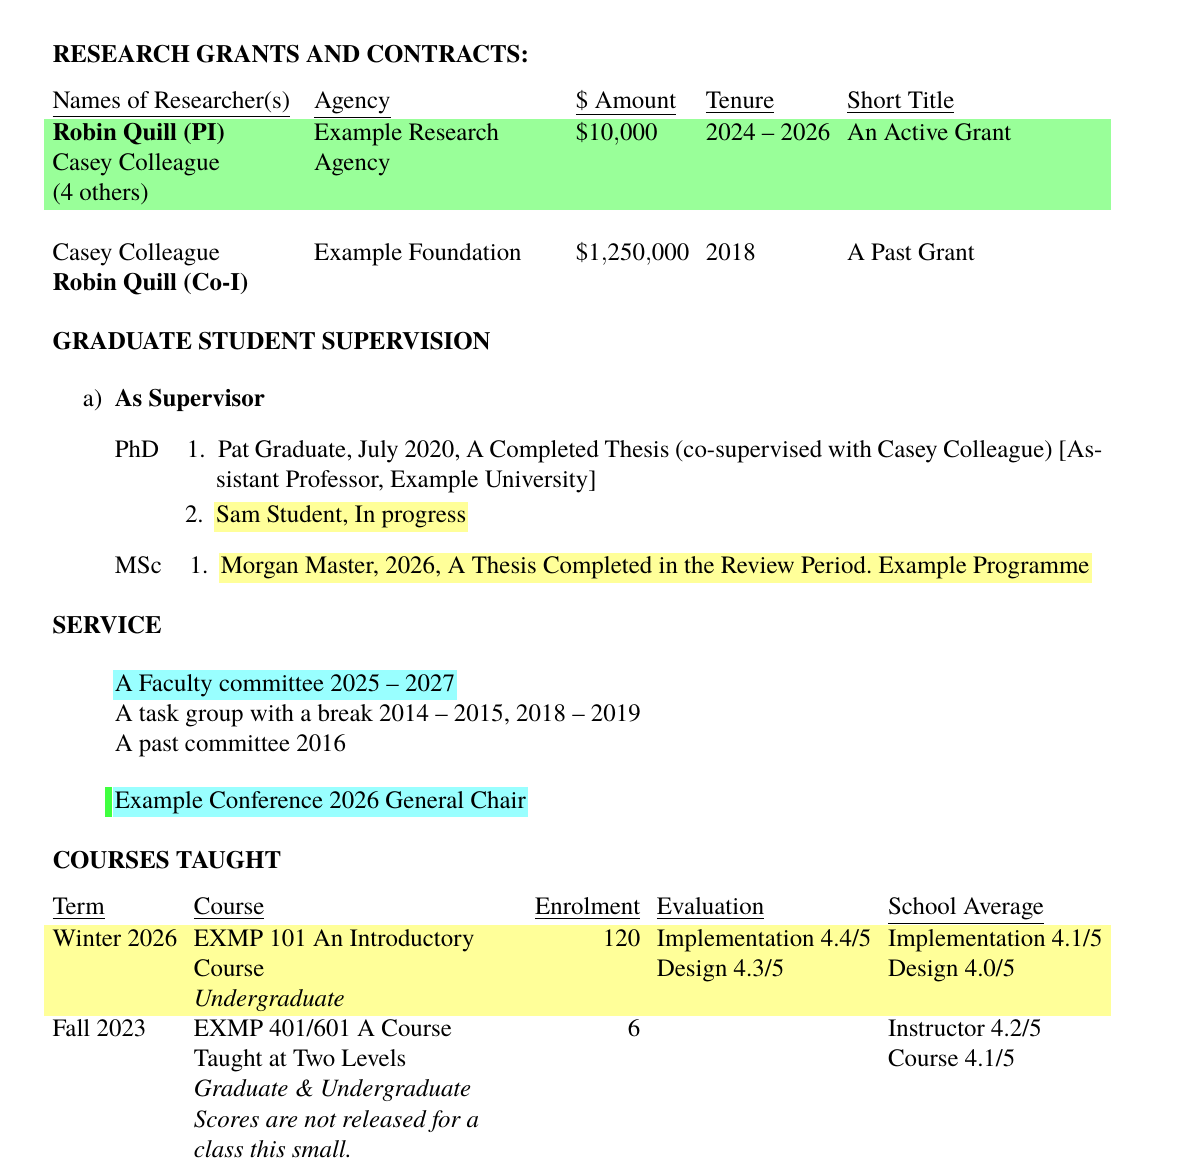
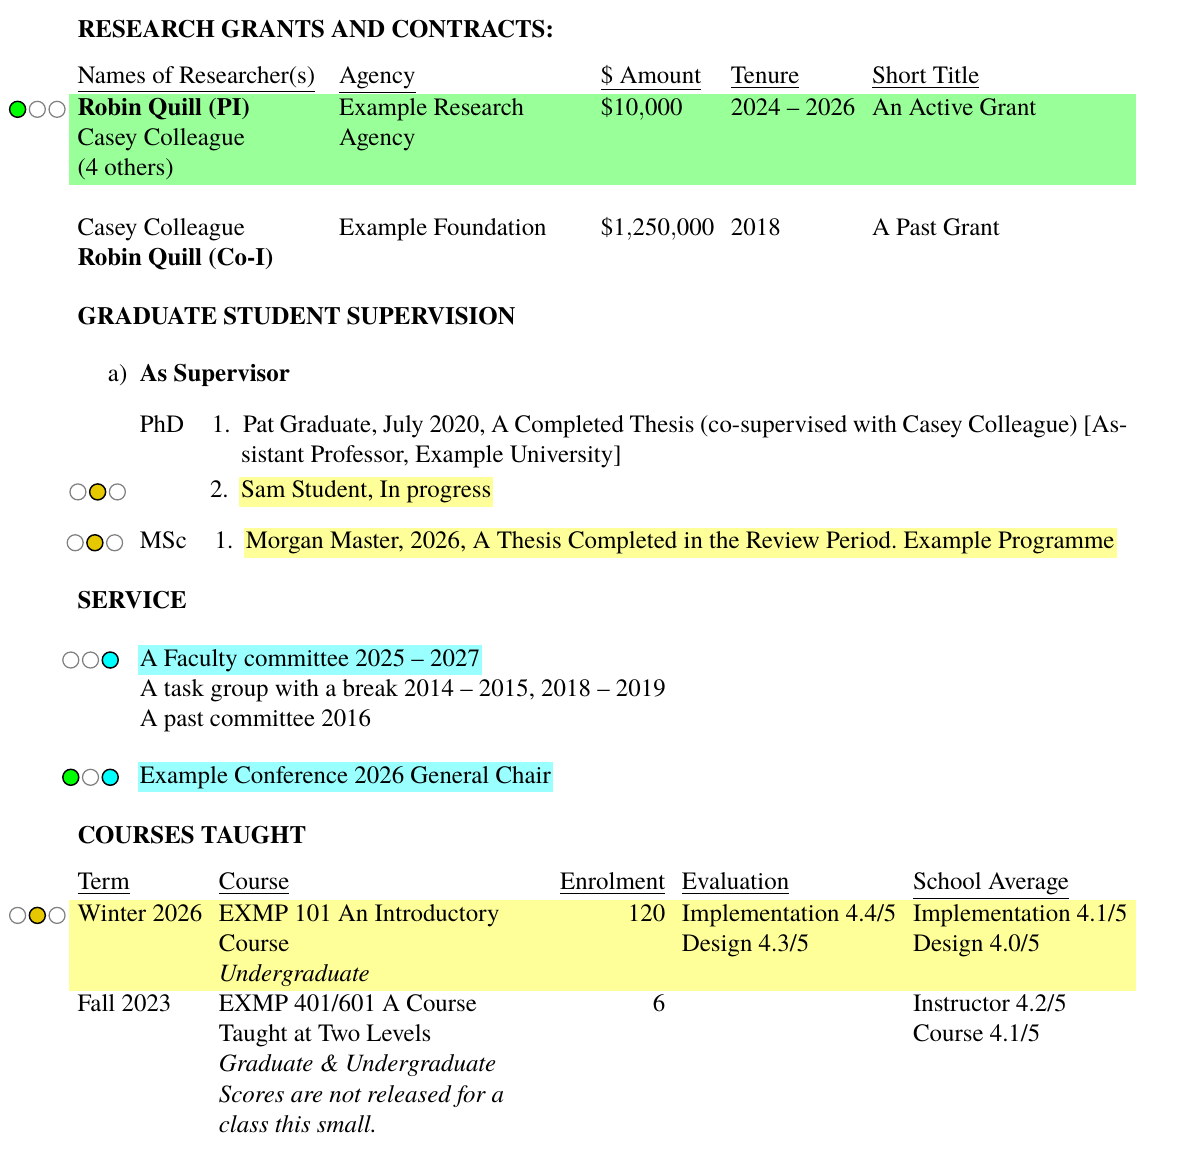
README: show the APR version in the dots style
Screenshots re-rendered from the starter CV with \sethighlightstyle{dots};
text and alt text describe the margin dots.

Claude-Session: https://claude.ai/code/session_01Lj65UYErS85rTPJwJ35aRd

Changed region(s): [[0.0, 0.0, 0.9639, 0.5174], [0.0, 0.5174, 0.9639, 1.0]]

diff --git a/README.md b/README.md
@@ -8,10 +8,11 @@ submit for the Annual Performance Review (APR), with every review-period item
 highlighted as teaching, research, service or an award. You keep one file, not
 two.
 
-![The same CV source compiled twice: the Faculty of Health CV on the left, and the APR version on the right, with review-period publications highlighted green as research and a trainee-authored paper and teaching software marked in two colours.](docs/images/plain-vs-apr.png)
+![The same CV source compiled twice: the Faculty of Health CV on the left, and the APR version on the right, with review-period publications highlighted green as research and, in the margin, a row of three dots per entry (research, teaching, service) filled for its categories: green alone for a paper, green and yellow for a trainee-authored paper and for teaching software.](docs/images/plain-vs-apr.png)
 
 *Left: `main.tex`, the Faculty of Health CV. Right: `apr.tex`, the same content as
-the APR version. All the examples here are fictional.*
+the APR version, in the dots style (`\sethighlightstyle{dots}`). All the examples
+here are fictional.*
 
 ## The APR version
 
@@ -23,7 +24,7 @@ two-year review period. The APR version shows the reviewer where each item belon
   awards and courses from that period are highlighted automatically. When the
   period moves, the highlighting moves with it.
 - **Two colours when work counts twice.** A paper with a trainee co-author is
-  research *and* supervision, and gets a bar in the second colour. Software built
+  research *and* supervision, and is marked in both colours. Software built
   for teaching can be teaching first and research second. You choose an entry's
   colours with biblatex categories (`aprteaching`, `apralsoresearch`, …).
 - **Award badges.** A paper or poster that won an award gets a rosette in the
@@ -33,9 +34,12 @@ two-year review period. The APR version shows the reviewer where each item belon
   authorship order in your field, or for course evaluation scores.
 - **Your choice of style.** Entries in two colours can be shown as a bar,
   halves, a split, a blend or dots, and the highlight strength is adjustable
-  (`apr-formatting.tex`).
+  (`apr-formatting.tex`). The screenshots use dots: each highlighted entry gets
+  three dots in the margin (research, teaching, service), filled for the
+  categories it counts in, so two-colour work reads at a glance and survives
+  black-and-white printing as filled versus empty.
 
-![Publications in the APR version: a review-period journal article highlighted green with a teaching bar for its trainee co-author, an award rosette beside an older paper, and a trainee's award-winning poster with a filled rosette.](docs/images/apr-publications.png)
+![Publications in the APR version in the dots style: a review-period journal article highlighted green with the research and teaching dots filled for its trainee co-author, an empty award rosette beside an older paper, and a trainee's award-winning poster with a filled pink rosette before its dots.](docs/images/apr-publications.png)
 
 Grants, students, service, awards and courses are records in `.bib` files, not
 hand-made tables. They print sorted, in the Faculty's table layouts, and are
@@ -43,7 +47,7 @@ highlighted from their dates: a grant whose tenure overlaps the period, a
 student still in progress, a committee you sat on, a course you taught. The
 APR version adds your course evaluation scores beside the school averages.
 
-![Grants, supervision, service and courses in the APR version: an active grant highlighted as research, current and recently graduated students as teaching, a Faculty committee as service, and a course from the review period with its evaluation scores and the school average.](docs/images/apr-records.png)
+![Grants, supervision, service and courses in the APR version in the dots style: an active grant highlighted as research, current and recently graduated students as teaching, a Faculty committee as service, a General Chair role with both the service and research dots filled, and a course from the review period with its evaluation scores and the school average.](docs/images/apr-records.png)
 
 The PDFs are tagged (PDF/UA-2, so screen readers get headings, lists and
 tables) and archival (PDF/A-4f).

diff --git a/CHANGELOG.md b/CHANGELOG.md
@@ -5,6 +5,9 @@ fixes, major for anything renamed or removed (with what a CV must change).
 
 ## Unreleased
 
+- README: the screenshots show the APR version in the dots style, and the text
+  and alt text describe the dots.
+
 ## v0.4.0 — 2026-11-19
 
 Additions only: nothing for a CV to change.
